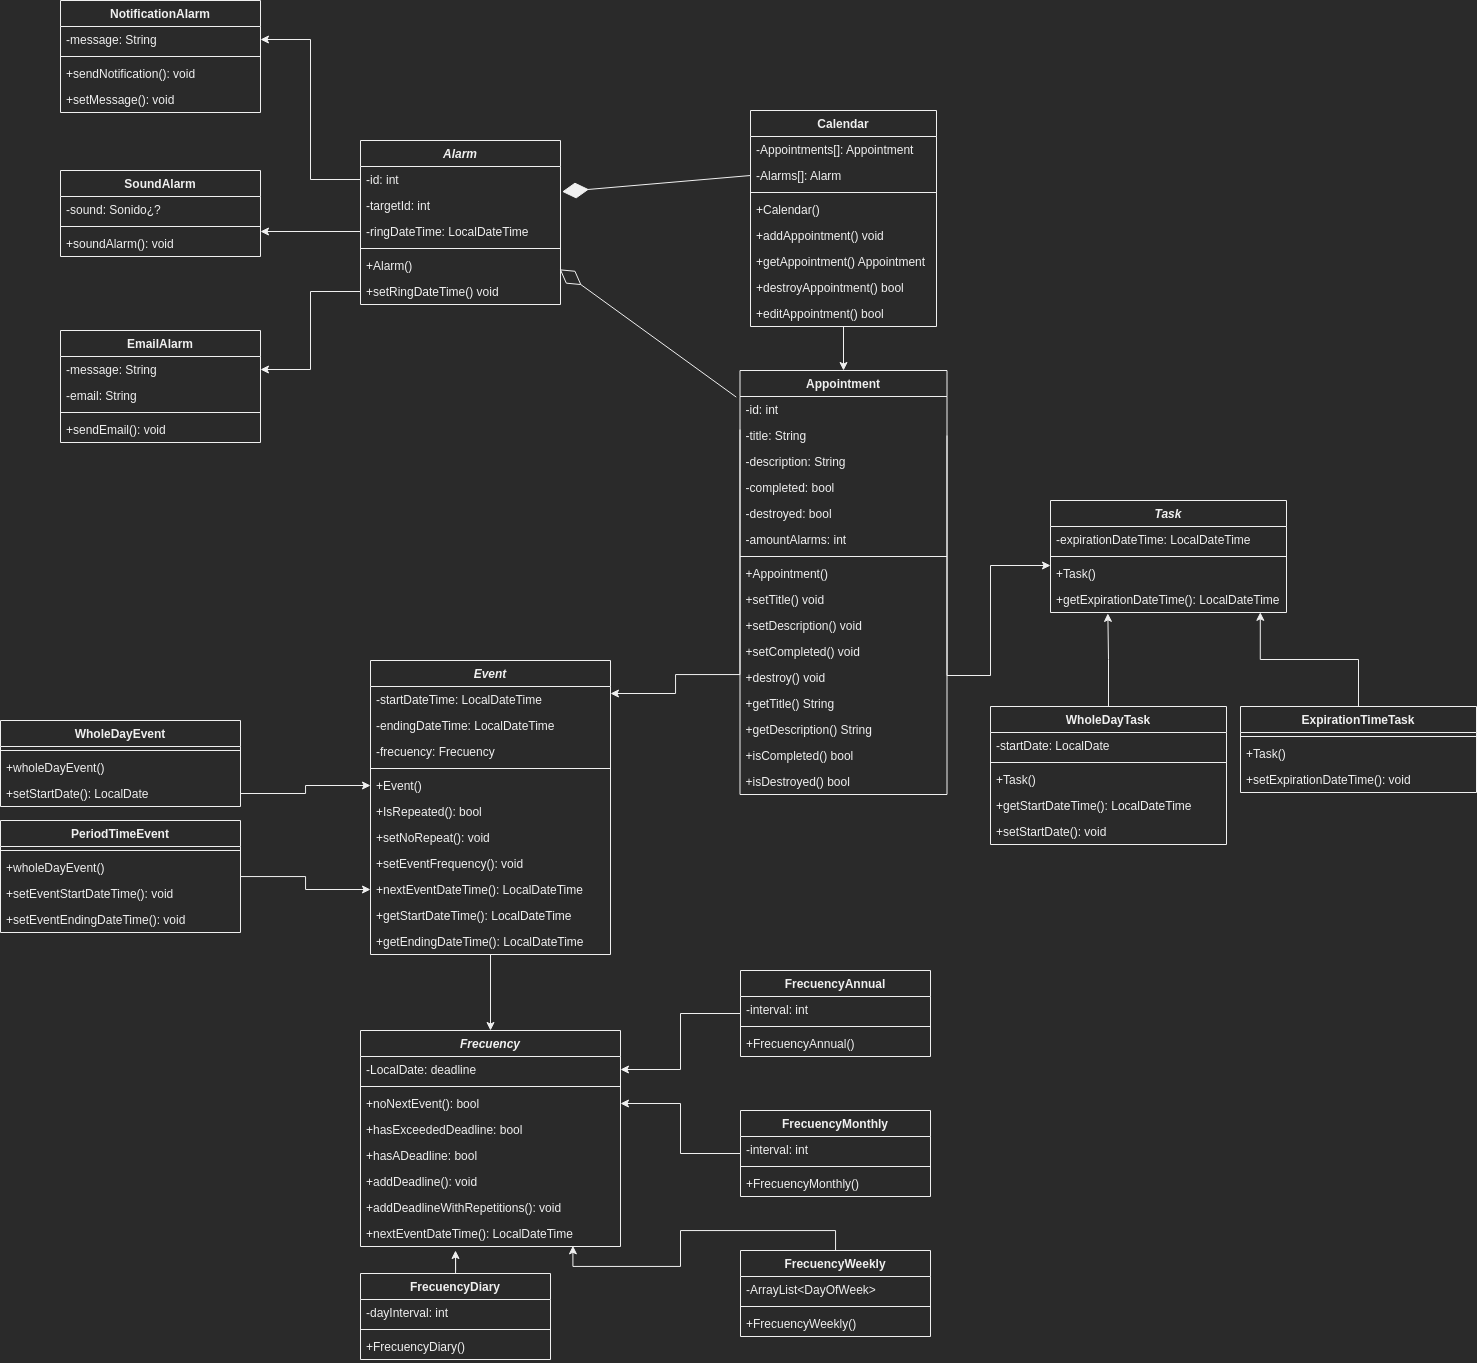
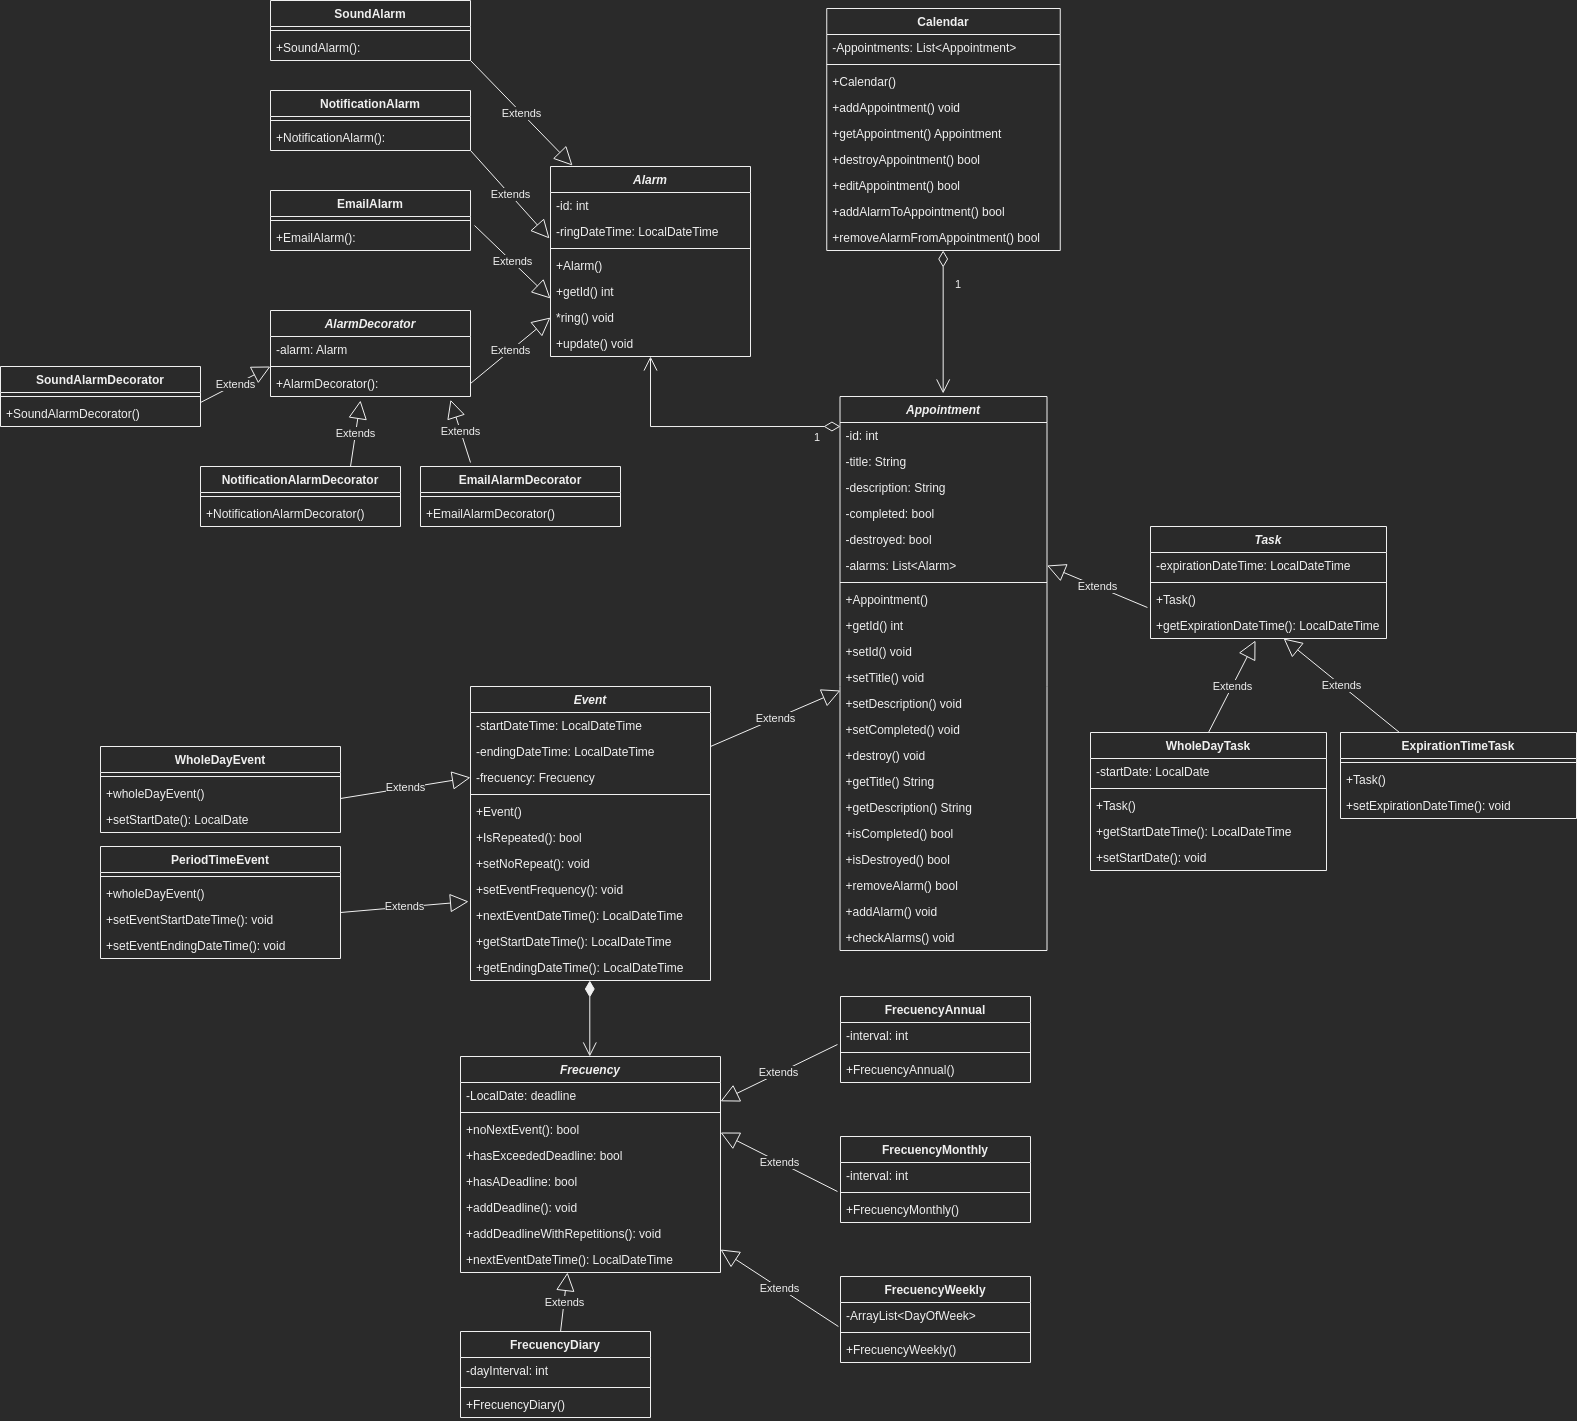
-Mejoras de codigo. -Correccion de bugs. -Se updatea el UML de clases y se corrigen las relaciones entre las clases.
PENDIENTE:
-Alarmas:
*Encontrar la manera de agregar las alarmas a los eventos infinitos.

-Agregar tests a:
*Alarmas (todas).

PENDIENTE PARA VERSION 2:
-Calendar:
*Agregar metodo getAppointmentsBetween();
*Agregar metodo que recorra todos los appointments pidiendole que updatee sus observadores cada 1 minuto.

diff --git a/src/main/java/org/calendar/event/frequency/FrequencyWeekly.java b/src/main/java/org/calendar/event/frequency/FrequencyWeekly.java
@@ -3,10 +3,10 @@ package org.calendar.event.frequency;
 import java.time.DayOfWeek;
 import java.time.LocalDate;
 import java.time.LocalDateTime;
-import java.util.ArrayList;
+import java.util.List;
 
 public class FrequencyWeekly extends Frequency {
-    private final ArrayList<DayOfWeek> weekDays;
+    private final List<DayOfWeek> weekDays;
     final int NUMBER_OF_DAYS = 7;
     final int ZERO_DAYS = 0;
     final int NOT_PRESENT = -1;
@@ -15,7 +15,7 @@ public class FrequencyWeekly extends Frequency {
     final int ARRAY_POSITION_DIFFERENCE = 1;
 
     //Constructor.
-    public FrequencyWeekly(ArrayList<DayOfWeek> weekDays){
+    public FrequencyWeekly(List<DayOfWeek> weekDays){
         this.weekDays = weekDays;
     }
 

diff --git a/src/main/java/org/calendar/alarms/AlarmDecorator.java b/src/main/java/org/calendar/alarms/AlarmDecorator.java
@@ -3,7 +3,7 @@ package org.calendar.alarms;
 import java.time.LocalDateTime;
 
 public abstract class AlarmDecorator extends Alarm {
-    public Alarm alarm;
+    protected final Alarm alarm;
 
     public AlarmDecorator(int id, LocalDateTime ringDateTime, Alarm alarm){
         super(id, ringDateTime);

diff --git a/src/main/java/org/calendar/appointment/Appointment.java b/src/main/java/org/calendar/appointment/Appointment.java
@@ -29,6 +29,11 @@ public abstract class Appointment{
         this.id = id;
     }
 
+    //Post: Returns the id.
+    public int getId(){
+        return id;
+    }
+
     //Post: Sets the title.
     public void setTitle(String title) {
         this.title = title;
